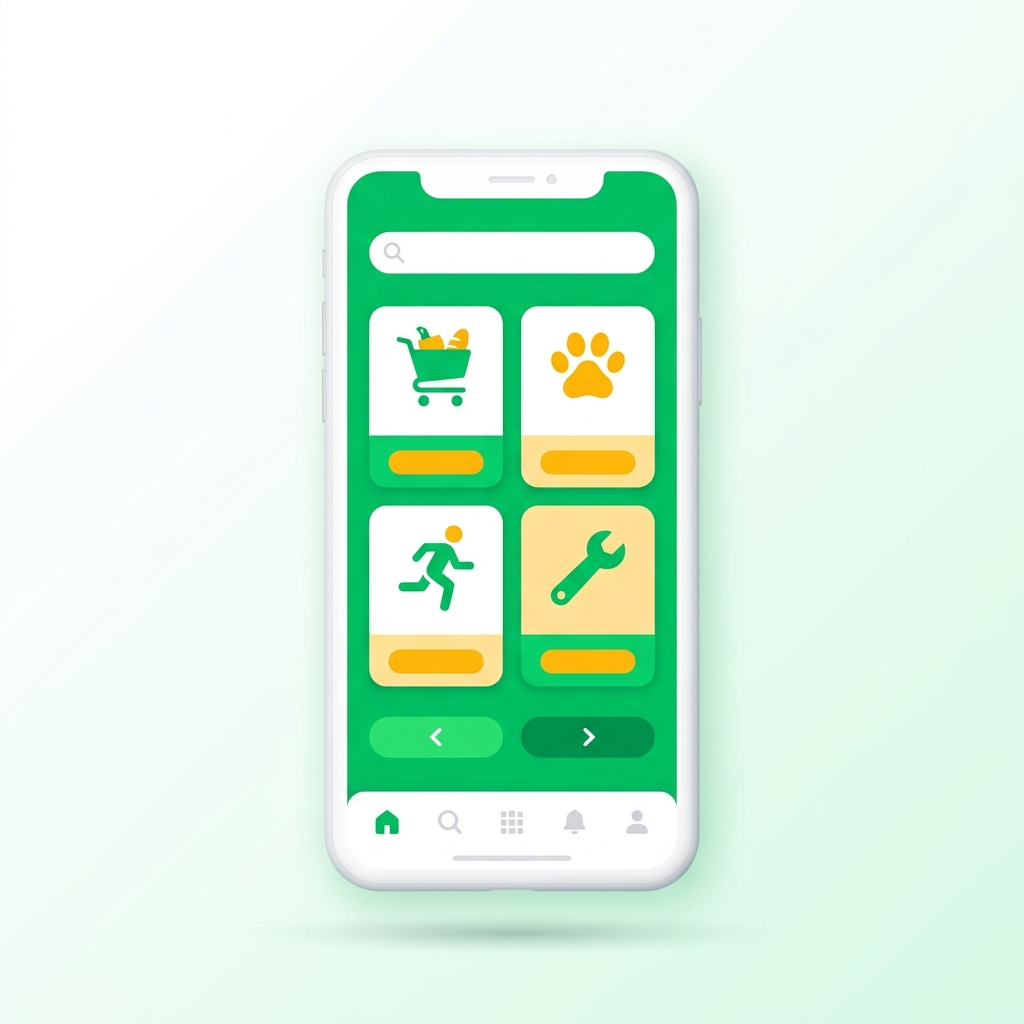
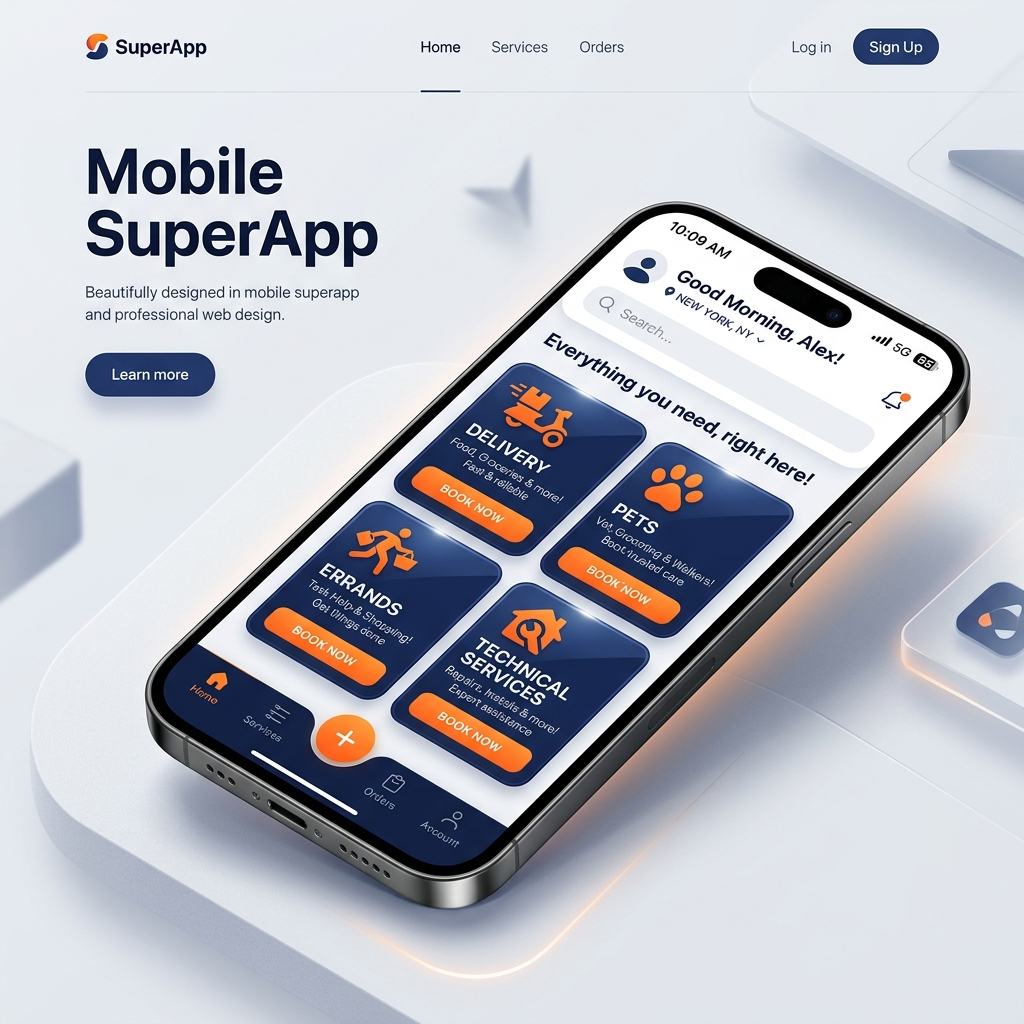
style: replace hero mockup image with premium brand colors

diff --git a/index.html b/index.html
@@ -12,7 +12,7 @@
   <meta property="og:description" content="Todo tu barrio en una sola app. Domicilios, mascotas, mandados y más en Bucaramanga.">
   <meta property="og:type" content="website">
   <meta property="og:url" content="https://barrioya.com">
-  <meta property="og:image" content="assets/images/hero-mockup.png">
+  <meta property="og:image" content="assets/images/hero-mockup.png?v=2">
 
   <title>BarrioYa — La Superapp del Barrio | Bucaramanga</title>
 
@@ -125,7 +125,7 @@
         </div>
       </div>
       <div class="hero-image fade-in">
-        <img src="assets/images/hero-mockup.png" alt="BarrioYa App - Mockup de la aplicación móvil de servicios del barrio" width="400" height="500">
+        <img src="assets/images/hero-mockup.png?v=2" alt="BarrioYa App - Mockup de la aplicación móvil de servicios del barrio" width="400" height="500">
       </div>
     </div>
   </section>

diff --git a/bust_img_cache.py b/bust_img_cache.py
@@ -1,0 +1,13 @@
+import re
+
+def bust_img(filepath):
+    with open(filepath, 'r', encoding='utf-8') as f:
+        content = f.read()
+
+    # Append cache buster to hero-mockup.png
+    content = re.sub(r'assets/images/hero-mockup\.png(?:\?v=\d+)?', r'assets/images/hero-mockup.png?v=2', content)
+    
+    with open(filepath, 'w', encoding='utf-8') as f:
+        f.write(content)
+
+bust_img('index.html')